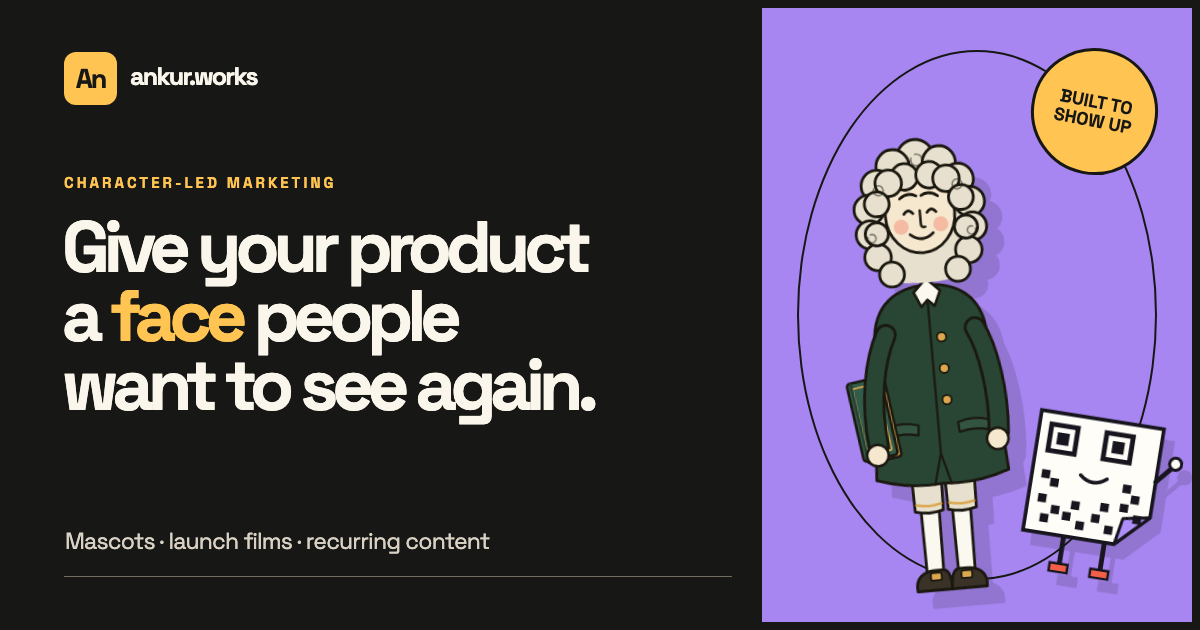
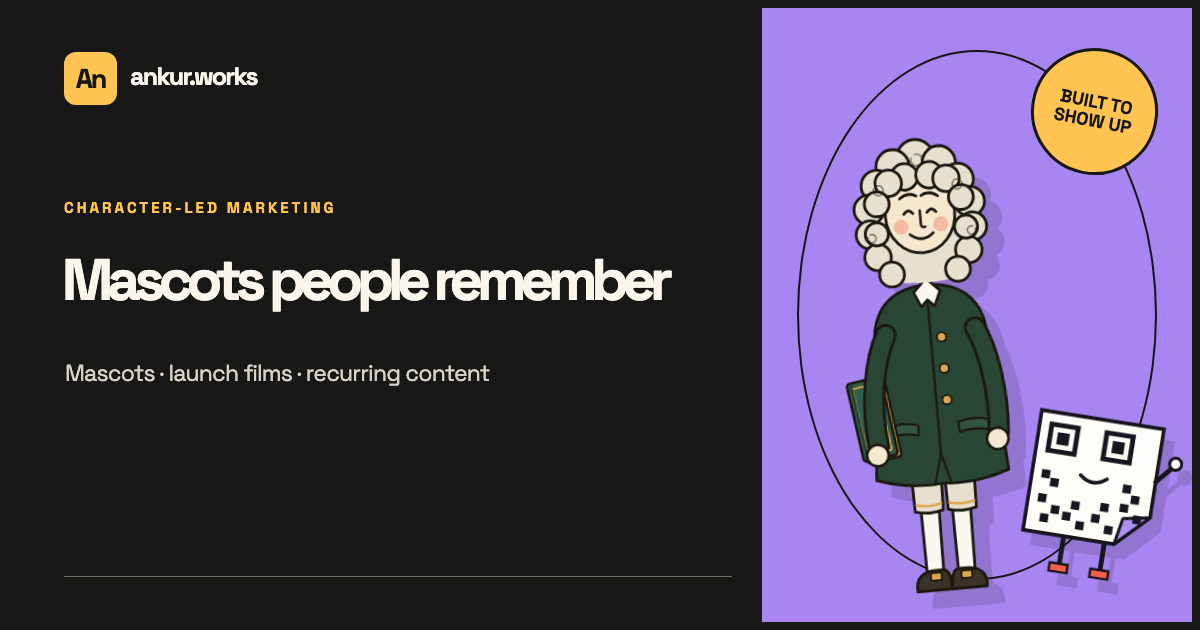
Lead mascot page with memorable outcome

Changed region(s): [[0.0308, 0.2714, 0.555, 0.6937], [0.0308, 0.8444, 0.4317, 0.8746]]

diff --git a/mascot-branding/index.html b/mascot-branding/index.html
@@ -5,14 +5,14 @@
 <title>Mascot Branding & Character-Led Marketing with Ankur Shrestha</title>
 <meta name="description" content="Brand mascots that go beyond a logo. Ankur Shrestha builds character systems, launch films and recurring content for software and founder-led brands. See the real work.">
 <link rel="canonical" href="https://www.ankur.works/mascot-branding/"><link rel="icon" type="image/jpeg" href="/favicon-headshot.jpeg?v=1"><link rel="preload" href="/fonts/space-grotesk-latin.woff2" as="font" type="font/woff2" crossorigin><link rel="preload" href="/fonts/dm-sans-latin.woff2" as="font" type="font/woff2" crossorigin><link rel="stylesheet" href="/styles/character-marketing.css">
-<meta property="og:type" content="website"><meta property="og:title" content="Give your product a face people want to see again"><meta property="og:description" content="Mascots, character systems and recurring product content by Ankur Shrestha."><meta property="og:url" content="https://www.ankur.works/mascot-branding/"><meta property="og:image" content="https://www.ankur.works/og-character-marketing.png"><meta property="og:image:type" content="image/png"><meta property="og:image:width" content="1200"><meta property="og:image:height" content="630"><meta property="og:image:alt" content="Ankur's character-led marketing work for Pepys and Whooshly"><meta name="twitter:card" content="summary_large_image"><meta name="twitter:image" content="https://www.ankur.works/og-character-marketing.png">
+<meta property="og:type" content="website"><meta property="og:title" content="Mascots people remember"><meta property="og:description" content="Mascots, character systems and recurring product content by Ankur Shrestha."><meta property="og:url" content="https://www.ankur.works/mascot-branding/"><meta property="og:image" content="https://www.ankur.works/og-character-marketing.png"><meta property="og:image:type" content="image/png"><meta property="og:image:width" content="1200"><meta property="og:image:height" content="630"><meta property="og:image:alt" content="Ankur's character-led marketing work for Pepys and Whooshly"><meta name="twitter:card" content="summary_large_image"><meta name="twitter:image" content="https://www.ankur.works/og-character-marketing.png">
 <script type="application/ld+json">{"@context":"https://schema.org","@graph":[{"@type":"Person","@id":"https://www.ankur.works/#ankur","name":"Ankur Shrestha","url":"https://www.ankur.works/"},{"@type":"Service","name":"Character-led marketing","serviceType":"Mascot branding and product marketing","url":"https://www.ankur.works/mascot-branding/","description":"Brand mascots, character systems, launch creative and recurring content for software and founder-led brands.","provider":{"@id":"https://www.ankur.works/#ankur"},"audience":{"@type":"Audience","audienceType":"Software products and founder-led brands"}}]}</script>
 </head>
 <body class="offer-page offer-character">
 <a class="skip" href="#main">Skip to content</a>
 <header class="header wrap"><a class="logo" href="/"><span class="logo-mark" aria-hidden="true"></span>ankur<i>.</i>works</a><nav aria-label="Main navigation"><a href="/#work">The work</a><a href="/product-development/">Build</a><a href="/seo-ai-search/">Search</a><a href="/#story">The story</a></nav><a class="nav-cta" href="#inquiry" data-offer-intent="character_marketing" data-offer-placement="header">Let's talk</a></header>
 <main id="main">
-<section class="character-hero wrap" aria-labelledby="character-title"><div class="character-hero-copy"><p class="eyebrow">CHARACTER-LED MARKETING / FOR PRODUCT BRANDS</p><h1 id="character-title">Give your product a <em>face</em> people want to see again</h1><p class="character-lede">I make brand mascots, give them a point of view, then put them to work in product launches, films and content people can recognise.</p><div class="offer-actions"><a class="button" href="#inquiry" data-offer-intent="character_marketing" data-offer-placement="hero">Build my character</a><a class="underlink" href="#characters">See the characters</a></div><p class="character-hero-note">Two products. Two characters. Both in motion.</p></div><div class="character-hero-stage" aria-label="Pepys and Quincy, full-body product mascots"><div class="character-orbit" aria-hidden="true"></div><div class="character-ground" aria-hidden="true"></div><div class="hero-pepys"><img src="/character-marketing/pepys-full-body.svg" width="320" height="620" alt="Pepys, the full-body scribe mascot, carrying his diary" fetchpriority="high" decoding="async"><span>PEPYS / THE SCRIBE</span></div><div class="hero-quincy"><img src="/character-marketing/quincy.svg" width="132" height="142" alt="Quincy, Whooshly's smiling QR code sticker mascot" decoding="async"><span>WHOOSHLY / QUINCY</span></div><div class="stage-stamp" aria-hidden="true">A CHARACTER<br>WITH A JOB</div></div></section>
+<section class="character-hero wrap" aria-labelledby="character-title"><div class="character-hero-copy"><p class="eyebrow">CHARACTER-LED MARKETING / FOR PRODUCT BRANDS</p><h1 id="character-title">Mascots people remember</h1><p class="character-lede">I create brand mascots that explain your product, carry launches, and show up again in content people recognise.</p><div class="offer-actions"><a class="button" href="#inquiry" data-offer-intent="character_marketing" data-offer-placement="hero">Build my character</a><a class="underlink" href="#characters">See the characters</a></div><p class="character-hero-note">Two products. Two characters. Both in motion.</p></div><div class="character-hero-stage" aria-label="Pepys and Quincy, full-body product mascots"><div class="character-orbit" aria-hidden="true"></div><div class="character-ground" aria-hidden="true"></div><div class="hero-pepys"><img src="/character-marketing/pepys-full-body.svg" width="320" height="620" alt="Pepys, the full-body scribe mascot, carrying his diary" fetchpriority="high" decoding="async"><span>PEPYS / THE SCRIBE</span></div><div class="hero-quincy"><img src="/character-marketing/quincy.svg" width="132" height="142" alt="Quincy, Whooshly's smiling QR code sticker mascot" decoding="async"><span>WHOOSHLY / QUINCY</span></div><div class="stage-stamp" aria-hidden="true">A CHARACTER<br>WITH A JOB</div></div></section>
 <div class="character-marquee" aria-label="Character work in use"><div class="wrap character-marquee-inner"><span>MAKE THE FACE</span><span>GIVE IT A VOICE</span><span>PUT IT TO WORK</span></div></div>
 <section class="character-proof wrap" id="characters" aria-labelledby="characters-title"><div class="character-section-heading"><div><p class="eyebrow">THE CHARACTERS</p><h2 id="characters-title">They already have<br><em>day jobs.</em></h2></div><p>These aren't speculative clients. They're characters built around my own products, shown in the context they were made for.</p></div>
 <article class="character-case whooshly-case"><div class="character-case-head"><div><span class="character-case-index">01 / WHOOSHLY</span><h3>Meet Quincy. A QR code with a personality.</h3><p>Quincy is Whooshly's sticker mascot: part product guide, part recurring face for links and QR codes. The same character works inside the product and in a short launch film.</p></div><img src="/character-marketing/quincy.svg" width="58" height="58" alt="Quincy, Whooshly's QR code mascot" loading="lazy"></div><div class="whooshly-case-grid"><figure class="case-quincy"><span class="quincy-hello" aria-hidden="true">HI, I'M QUINCY</span><img src="/character-marketing/quincy.svg" width="132" height="142" alt="Quincy waving" loading="lazy" decoding="async"><figcaption>One recognisable face across product and marketing.</figcaption></figure><figure class="case-film"><video controls playsinline preload="none" data-video-asset="whooshly_quincy_film" poster="/character-marketing/quincy-poster.png" aria-label="Watch Whooshly's Meet Quincy film"><source src="/character-marketing/quincy-film.mp4" type="video/mp4">Your browser does not support video.</video><figcaption>Meet Quincy: a short Whooshly character film. Tap to play; no autoplay.</figcaption></figure></div><div class="character-case-foot"><span>PRODUCT MASCOT</span><span>PRODUCT GUIDE</span><span>SHORT FILM</span><a href="https://whooshly.co/" target="_blank" rel="noopener noreferrer">See Whooshly</a></div></article>

diff --git a/styles/character-marketing.css b/styles/character-marketing.css
@@ -5,8 +5,7 @@
 .character-hero{min-height:720px;display:grid;grid-template-columns:minmax(0,1.06fr) minmax(0,.94fr);align-items:center;gap:3%;padding-top:72px;padding-bottom:85px}
 .character-hero-copy{position:relative;z-index:2}
 .character-hero .eyebrow{color:#a6472c}
-.character-hero h1{max-width:800px;margin:22px 0 26px;font:700 clamp(58px,6.1vw,96px)/.96 var(--display);letter-spacing:-.09em;text-wrap:balance}
-.character-hero h1 em{color:#d85837;font-style:normal}
+.character-hero h1{max-width:800px;margin:22px 0 26px;font:700 clamp(36px,3.5vw,60px)/1.05 var(--display);letter-spacing:-.09em}
 .character-lede{max-width:640px;color:#4a453d;font:500 clamp(20px,1.8vw,24px)/1.42 var(--body);letter-spacing:-.025em}
 .character-hero-note{margin-top:33px;color:#776a5d;font:700 11px/1.4 var(--display);letter-spacing:.055em;text-transform:uppercase}
 .character-hero-stage{height:560px;position:relative;min-width:0;overflow:clip;isolation:isolate}
@@ -144,10 +143,10 @@
 .offer-character .offer-inquiry .eyebrow{color:#a6472c}
 .offer-character .offer-inquiry-form{background:#fffaf2}
 @media(max-width:1050px){.character-hero{grid-template-columns:1fr;min-height:0;padding-top:62px}.character-hero h1{max-width:900px}.character-hero-stage{width:min(100%,650px);margin:35px auto 0}.character-section-heading{grid-template-columns:1fr 1fr}.system-track{grid-template-columns:repeat(2,1fr)}}
-@media(max-width:760px){.character-hero{padding-top:49px;padding-bottom:55px}.character-hero h1{font-size:clamp(48px,10vw,70px)}.character-lede{font-size:18px}.character-hero-stage{height:450px}.hero-pepys{height:405px;width:52%}.hero-quincy{height:200px;width:29%}.stage-stamp{width:100px;height:100px;font-size:12px}.character-marquee-inner{overflow:auto;justify-content:flex-start;gap:32px}.character-proof,.character-system{padding-top:66px;padding-bottom:70px}.character-section-heading{display:block;margin-bottom:28px}.character-section-heading h2,.principle-inner h2{font-size:clamp(41px,8.6vw,60px)}.character-section-heading>p{margin-top:18px;font-size:16px}.character-case-head{padding:27px 23px 23px}.character-case-head h3{font-size:clamp(33px,7vw,48px)}.character-case-head p{font-size:15px}.character-case-head>img{width:42px;height:42px}.whooshly-case-grid,.pepys-case-grid{grid-template-columns:1fr;padding:0 16px 22px}.whooshly-case figure>img,.whooshly-case video{height:auto;aspect-ratio:16/10}.character-case-foot{padding:0 23px 28px}.character-principle{padding:70px 0}.principle-inner{display:block}.principle-inner h2{margin:18px 0}.principle-inner>p:last-child{font-size:16px}.character-offer{padding:67px 0}.character-offer-grid{grid-template-columns:1fr}.character-offer-grid article{min-height:250px}.character-offer-grid h3{margin:28px 0 12px}.character-about{grid-template-columns:1fr;padding-top:70px;padding-bottom:70px}.character-about>div:last-child{padding-top:20px}.character-about h2{font-size:clamp(40px,8vw,55px)}}
+@media(max-width:760px){.character-hero{padding-top:49px;padding-bottom:55px}.character-hero h1{font-size:clamp(30px,7vw,54px)}.character-lede{font-size:18px}.character-hero-stage{height:450px}.hero-pepys{height:405px;width:52%}.hero-quincy{height:200px;width:29%}.stage-stamp{width:100px;height:100px;font-size:12px}.character-marquee-inner{overflow:auto;justify-content:flex-start;gap:32px}.character-proof,.character-system{padding-top:66px;padding-bottom:70px}.character-section-heading{display:block;margin-bottom:28px}.character-section-heading h2,.principle-inner h2{font-size:clamp(41px,8.6vw,60px)}.character-section-heading>p{margin-top:18px;font-size:16px}.character-case-head{padding:27px 23px 23px}.character-case-head h3{font-size:clamp(33px,7vw,48px)}.character-case-head p{font-size:15px}.character-case-head>img{width:42px;height:42px}.whooshly-case-grid,.pepys-case-grid{grid-template-columns:1fr;padding:0 16px 22px}.whooshly-case figure>img,.whooshly-case video{height:auto;aspect-ratio:16/10}.character-case-foot{padding:0 23px 28px}.character-principle{padding:70px 0}.principle-inner{display:block}.principle-inner h2{margin:18px 0}.principle-inner>p:last-child{font-size:16px}.character-offer{padding:67px 0}.character-offer-grid{grid-template-columns:1fr}.character-offer-grid article{min-height:250px}.character-offer-grid h3{margin:28px 0 12px}.character-about{grid-template-columns:1fr;padding-top:70px;padding-bottom:70px}.character-about>div:last-child{padding-top:20px}.character-about h2{font-size:clamp(40px,8vw,55px)}}
 @media(max-width:760px){.case-quincy{min-height:320px}.case-quincy>img{height:240px!important}}
 @media(max-width:760px){.pepys-case .pepys-film{grid-template-columns:1fr;gap:15px;padding:13px}.pepys-film figcaption{padding:0 4px 5px}.pepys-film figcaption strong{font-size:28px}.pepys-film figcaption span{max-width:none;font-size:14px;margin-top:7px}}
 @media(max-width:760px){.mascot-walkway{height:140px;margin-top:22px}.walkway-system{margin:0 0 24px}.walker-pepys{width:73px;height:123px}.walker-quincy{--quincy-width:64px;height:70px}.walkway-proof .walker-pepys{--pepys-end:50%}.walkway-system .walker-quincy{--quincy-return-end:45%}}
 @media(max-width:620px){.system-track{grid-template-columns:1fr}.system-track article{min-height:300px}.system-art{max-width:320px;margin-inline:auto}}
-@media(max-width:480px){.character-hero h1{font-size:clamp(42px,10.2vw,54px)}.character-hero-stage{height:350px;margin-top:28px}.hero-pepys{height:315px;width:54%;left:0}.hero-quincy{height:155px;width:33%;right:2%}.hero-pepys span,.hero-quincy span{font-size:7px;padding:5px 7px}.character-ground{bottom:32px}.stage-stamp{width:74px;height:74px;font-size:9px}.pepys-case figure{min-height:250px}.pepys-case figure img{height:190px}.character-case-foot>a{margin-left:0}}
+@media(max-width:480px){.character-hero h1{font-size:clamp(23px,7vw,32px)}.character-hero-stage{height:350px;margin-top:28px}.hero-pepys{height:315px;width:54%;left:0}.hero-quincy{height:155px;width:33%;right:2%}.hero-pepys span,.hero-quincy span{font-size:7px;padding:5px 7px}.character-ground{bottom:32px}.stage-stamp{width:74px;height:74px;font-size:9px}.pepys-case figure{min-height:250px}.pepys-case figure img{height:190px}.character-case-foot>a{margin-left:0}}
 @media(prefers-reduced-motion:reduce){.hero-pepys,.hero-quincy,.mascot-walkway .walker,.mascot-walkway .walker img{animation:none!important}.mascot-walkway.walk-ready .walker{opacity:1!important}.stage-stamp{transform:none}.offer-character *{scroll-behavior:auto!important}}

diff --git a/design/og/character-marketing.html b/design/og/character-marketing.html
@@ -1,3 +1,3 @@
 <!doctype html><html lang="en"><meta charset="utf-8"><style>
-@font-face{font-family:Space;src:url("../../public/fonts/space-grotesk-latin.woff2")}*{box-sizing:border-box}html,body{margin:0;width:1200px;height:630px;overflow:hidden}body{font-family:Space,Arial,sans-serif;background:#171715;color:#faf6eb}.canvas{width:1200px;height:630px;position:relative;overflow:hidden;border:8px solid #171715}.top{position:absolute;left:56px;top:44px;font-size:25px;font-weight:700;letter-spacing:-1.7px}.logo{display:inline-grid;place-items:center;width:53px;height:53px;margin-right:13px;border-radius:12px;background:#ffc451;color:#171715;font-size:27px;vertical-align:middle;letter-spacing:-2px}.label{position:absolute;left:56px;top:165px;color:#ffc451;font-size:15px;letter-spacing:3px;font-weight:700}.title{position:absolute;left:54px;top:205px;z-index:2;font-size:72px;line-height:.96;letter-spacing:-6px;font-weight:700}.title span{color:#ffc451}.sub{position:absolute;left:57px;bottom:66px;font-size:23px;letter-spacing:-.8px;color:#d8d1c4}.right{position:absolute;right:0;top:0;width:430px;height:100%;background:#a786f1}.right:before{content:'';position:absolute;inset:42px 35px;border:2px solid #171715;border-radius:50%}.quincy{position:absolute;right:15px;bottom:36px;width:160px;height:180px;object-fit:contain;transform:rotate(9deg);filter:drop-shadow(11px 12px 0 #17171526)}.pepys{position:absolute;right:128px;bottom:16px;width:265px;height:520px;object-fit:contain;transform:rotate(-5deg);filter:drop-shadow(15px 17px 0 #17171526)}.stamp{position:absolute;right:34px;top:40px;width:127px;height:127px;border:3px solid #171715;border-radius:50%;display:grid;place-items:center;transform:rotate(11deg);text-align:center;background:#ffc451;color:#171715;font-size:18px;line-height:1.05;font-weight:700}.line{position:absolute;left:56px;right:460px;bottom:45px;height:1px;background:#736c60}
-</style><div class="canvas"><div class="right"></div><div class="top"><span class="logo">An</span>ankur.works</div><div class="label">CHARACTER-LED MARKETING</div><div class="title">Give your product<br>a <span>face</span> people<br>want to see again.</div><div class="sub">Mascots · launch films · recurring content</div><div class="line"></div><img class="pepys" src="../../public/character-marketing/pepys-full-body.svg" alt=""><img class="quincy" src="../../public/character-marketing/quincy.svg" alt=""><div class="stamp">BUILT TO<br>SHOW UP</div></div></html>
+@font-face{font-family:Space;src:url("../../public/fonts/space-grotesk-latin.woff2")}*{box-sizing:border-box}html,body{margin:0;width:1200px;height:630px;overflow:hidden}body{font-family:Space,Arial,sans-serif;background:#171715;color:#faf6eb}.canvas{width:1200px;height:630px;position:relative;overflow:hidden;border:8px solid #171715}.top{position:absolute;left:56px;top:44px;font-size:25px;font-weight:700;letter-spacing:-1.7px}.logo{display:inline-grid;place-items:center;width:53px;height:53px;margin-right:13px;border-radius:12px;background:#ffc451;color:#171715;font-size:27px;vertical-align:middle;letter-spacing:-2px}.label{position:absolute;left:56px;top:190px;color:#ffc451;font-size:15px;letter-spacing:3px;font-weight:700}.title{position:absolute;left:54px;top:245px;z-index:2;font-size:58px;line-height:.96;letter-spacing:-6px;font-weight:700}.sub{position:absolute;left:57px;top:350px;font-size:23px;letter-spacing:-.8px;color:#d8d1c4}.right{position:absolute;right:0;top:0;width:430px;height:100%;background:#a786f1}.right:before{content:'';position:absolute;inset:42px 35px;border:2px solid #171715;border-radius:50%}.quincy{position:absolute;right:15px;bottom:36px;width:160px;height:180px;object-fit:contain;transform:rotate(9deg);filter:drop-shadow(11px 12px 0 #17171526)}.pepys{position:absolute;right:128px;bottom:16px;width:265px;height:520px;object-fit:contain;transform:rotate(-5deg);filter:drop-shadow(15px 17px 0 #17171526)}.stamp{position:absolute;right:34px;top:40px;width:127px;height:127px;border:3px solid #171715;border-radius:50%;display:grid;place-items:center;transform:rotate(11deg);text-align:center;background:#ffc451;color:#171715;font-size:18px;line-height:1.05;font-weight:700}.line{position:absolute;left:56px;right:460px;bottom:45px;height:1px;background:#736c60}
+</style><div class="canvas"><div class="right"></div><div class="top"><span class="logo">An</span>ankur.works</div><div class="label">CHARACTER-LED MARKETING</div><div class="title">Mascots people remember</div><div class="sub">Mascots · launch films · recurring content</div><div class="line"></div><img class="pepys" src="../../public/character-marketing/pepys-full-body.svg" alt=""><img class="quincy" src="../../public/character-marketing/quincy.svg" alt=""><div class="stamp">BUILT TO<br>SHOW UP</div></div></html>

diff --git a/implementation/character-marketing/METADATA-SCHEMA.md b/implementation/character-marketing/METADATA-SCHEMA.md
@@ -3,7 +3,7 @@
 - Route and canonical: `https://www.ankur.works/mascot-branding/`.
 - Title: `Mascot Branding & Character-Led Marketing with Ankur Shrestha`.
 - Description: `Brand mascots that go beyond a logo. Ankur Shrestha builds character systems, launch films and recurring content for software and founder-led brands. See the real work.`
-- H1: `Give your product a face people want to see again`.
+- H1: `Mascots people remember`.
 - OG/Twitter: `/og-character-marketing.png`, 1200×630. The source layout is `design/og/character-marketing.html`.
 - JSON-LD: one `Service` node for character-led marketing with a provider reference to the existing sitewide `Person` ID `https://www.ankur.works/#ankur`. No rating, price, award or testimonial schema.
 - Indexability: no `noindex` on the route; route added to `public/sitemap.xml`. Live indexation is not claimed.

diff --git a/research/character-marketing/LANDING-PAGE-COPY.md b/research/character-marketing/LANDING-PAGE-COPY.md
@@ -4,9 +4,9 @@ Live draft: [mascot-branding/index.html](../../mascot-branding/index.html). This
 
 **Eyebrow:** Character-led marketing / for product brands
 
-**H1:** Give your product a face people want to see again
+**H1:** Mascots people remember
 
-**Explainer:** I make brand mascots, give them a point of view, then put them to work in product launches, films and content people can recognise.
+**Explainer:** I create brand mascots that explain your product, carry launches, and show up again in content people recognise.
 
 **Primary CTA:** Build my character. **Secondary CTA:** See the characters.
 
